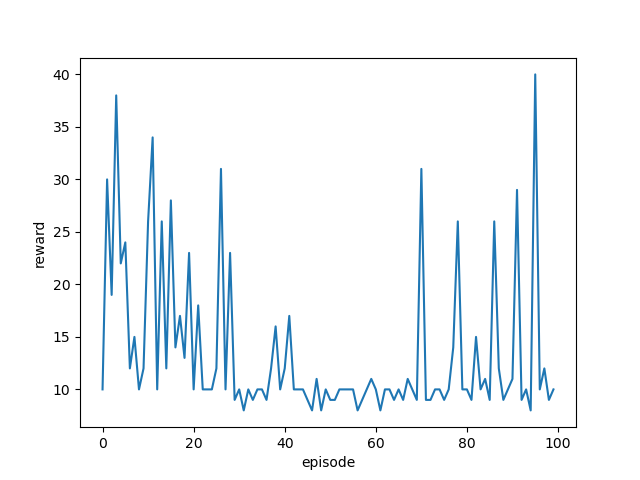
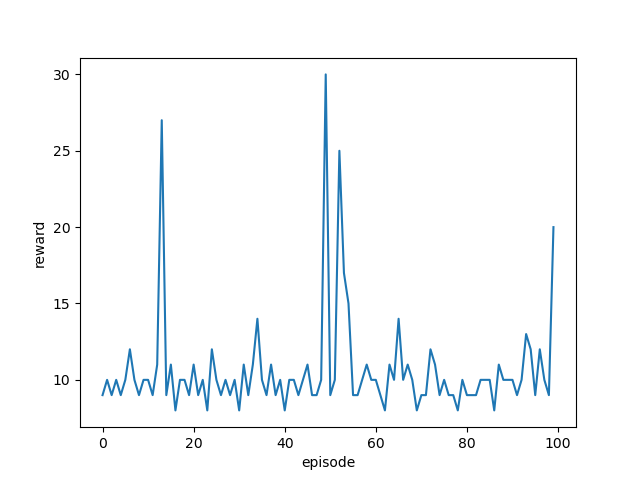
modify NN forward , logger update_parameter

diff --git a/DQN/dqn.py b/DQN/dqn.py
@@ -16,7 +16,7 @@ class Model(nn.Module):
 
     @torch.autocast(device_type='cuda')
     def forward(self,x):
-        x1 = torch.tensor(x,dtype=torch.float32).cuda()
+        x1 = torch.tensor(x,dtype=torch.float32,requires_grad=True).clone().detach().requires_grad_(True).cuda()
         x2 = self.first(x1)
         x3 = self.firstAct(x2)
         x4 = self.second(x3)
@@ -27,14 +27,15 @@ class Model(nn.Module):
     
 
 class DQN():
-    def __init__(self,actShape,obsShape,gamma,epsilon):
+    def __init__(self,actShape,obsShape,gamma,epsilon,training=True):
         self.model = Model(obsShape,actShape).to('cuda')
         self.optimizer = torch.optim.SGD(self.model.parameters(),lr=5e-2)
         self.gamma = gamma
         self.epsilon = epsilon
+        self.traing = training
 
     def sample_action(self,x):
-        if self.epsilon < np.random.rand():
+        if (self.epsilon < np.random.rand()) and self.traing:
             logits = self.model(x)
             probab = nn.Softmax(dim=0)(logits)
             tensorPredict = torch.argmax(probab).detach()
@@ -44,13 +45,14 @@ class DQN():
 
         return predict
 
-    def update_parameter(self, obs, reward, next_obs, done):
+    def update_parameter(self, act, obs, reward, next_obs, done):
         if done == True:
             y = reward
         else:
             y = reward + self.gamma * torch.max(self.model(next_obs))
-        
-        loss = torch.sum(torch.pow(y-self.model(obs),2))
+
+        x = self.model(obs)[int(act.item())]
+        loss = torch.pow(y-x,2)
 
         self.optimizer.zero_grad()
         loss.backward()

diff --git a/DQN/memory.py b/DQN/memory.py
@@ -47,4 +47,48 @@ class Memory():
         self.done.zero_()
         self.index  = 0
 
+class NumMemory:
+    def __init__(self, size, actShape, obsShape) :
+        self.size = size
+        self.action = np.zeros((self.size, actShape)) 
+        self.obs = np.zeros((self.size, obsShape))
+        self.reward = np.zeros((self.size, 1)) 
+        self.next_obs = np.zeros((self.size, obsShape))
+        self.done = np.zeros((self.size, 1))
+        self.index = 0
 
+    def add(self, action, obs, reward, next_obs, done):
+        try:
+            self.action[self.index] = action
+            self.obs[self.index] = obs
+            self.reward[self.index] = reward
+            self.next_obs[self.index] = next_obs
+            self.done[self.index] = done 
+        except(IndexError) as e:
+            print(e)
+            print('no more added')
+
+        self.index += 1
+
+    def randomSample(self):
+        index = np.random.randint(0,self.index)
+
+        try:
+            action = self.action[index]
+            obs = self.obs[index]
+            reward = self.reward[index]
+            next_obs = self.next_obs[index]
+            done = self.done[index]
+        except(IndexError) as e:
+            print(e)
+            print(f'{index} is no assign')
+
+        return action, obs, reward, next_obs, done
+    
+    def reset(self):
+        np.zeros_like(self.action)
+        np.zeros_like(self.obs) 
+        np.zeros_like(self.reward) 
+        np.zeros_like(self.next_obs) 
+        np.zeros_like(self.done) 
+        self.index  = 0

diff --git a/DQN/test.py b/DQN/test.py
@@ -1,6 +1,8 @@
 import numpy as np
 import torch
 import torch.nn as nn
+from dqn import *
+from config import *
 '''a = [[1.,2.,3.,4.],[5.,6.,7.,8.]]
 na = np.array(a)
 ta = torch.tensor(na)
@@ -35,6 +37,7 @@ device = (
 )
 model = NeuralNetwork().to(device)
 
+'''
 X = torch.rand(1, 28, 28, device=device)
 logits = model(X)
 pred_probab = nn.Softmax(dim=1)(logits)
@@ -44,7 +47,7 @@ print(f"Predicted class: {y_pred}")
 #tensor([[ 0.0820, -0.0153, -0.1121,  0.0854, -0.0653,  0.1364,  0.0372, -0.0080,
 #         -0.0267,  0.0210]], device='cuda:0', grad_fn=<AddmmBackward0>)
 #Predicted class: tensor([5], device='cuda:0')
-
+'''
 
 
 class FuncNeuralNetwork(nn.Module):
@@ -69,6 +72,7 @@ class FuncNeuralNetwork(nn.Module):
 
         return y,z
 
+'''
 FModel = FuncNeuralNetwork().to(device)
 print(FModel)
 X = torch.rand(1,28,28,device=device)
@@ -79,5 +83,20 @@ print(f"logits1: {logits1}")
 print(f"probab1: {pred_probab1}")
 print(f"logits2: {logits2}")
 print(f"probab2: {pred_probab2}")
+'''
+
+agent = DQN(2,4,GAMMA,EPSILON)
+X = torch.rand(1,4,dtype=torch.float32)
+print(X)
+predict = agent.model(X)
+print(f"predict:{predict}")
+act = predict[0,1].requires_grad_(True)
+a = torch.tensor(1.).cuda()
+print(f'act:{act}')
+print(f'type:{type(act)}')
+print(f'a-predict:{a-predict}')
+print(f'a-act:{a-act}')
+
+print(agent.model(np.arange(4)))
 
 

diff --git a/DQN/main.py b/DQN/main.py
@@ -26,8 +26,8 @@ def main():
             rewardEpi[i] += reward
             memory.add(action,state,reward,next_state,done)
 
-            act, stat, rew, next_stat, done = memory.randomSample()
-            agent.update_parameter(stat,rew,next_stat,done)
+            act, stat, rew, next_stat, do = memory.randomSample()
+            agent.update_parameter(act,stat,rew,next_stat,do)
 
             if(done):
                 break
@@ -36,8 +36,8 @@ def main():
         memory.reset()
         done = False
 
-        if((i % INTERVAL) == 0):
-            print(f'\n {i}:reward max:{max(rewardEpi[i-INTERVAL:], default=None)}, mean:{np.mean(rewardEpi[i-INTERVAL:])}, min:{min(rewardEpi[i-INTERVAL:])}')
+        if(((i % INTERVAL) == 0) and (i != 0)):
+            print(f'\n {i}:reward max:{max(rewardEpi[i-INTERVAL:i], default=None)}, mean:{np.mean(rewardEpi[i-INTERVAL:i])}, min:{min(rewardEpi[i-INTERVAL:i])}')
 
     env.close()
 

diff --git a/DQN/demo.py b/DQN/demo.py
@@ -8,8 +8,8 @@ from tqdm import tqdm
 
 env = gym.make('CartPole-v1', render_mode='human')
 state, _ = env.reset()
-agent = DQN(2,env.observation_space.shape[0],GAMMA,EPSILON)
-agent.model = torch.load(DQN_PARAM_PATH)
+agent = DQN(2,env.observation_space.shape[0],GAMMA,EPSILON,False)
+agent.model = torch.load(DQN_PARAM_PATH+str(NUM_EPI))
 done = False
 action_his = np.array([])
 

diff --git a/DQN/config.py b/DQN/config.py
@@ -5,6 +5,6 @@ import os
 DQN_PARAM_PATH = os.path.join(os.path.dirname(os.path.abspath(__file__)), 'param/DQNparam')
 GAMMA = 0.9
 EPSILON = 0.1
-NUM_EPI = int(1e6)
+NUM_EPI = int(1e2)
 NUM_STEP = int(1e4)
 INTERVAL = 100
